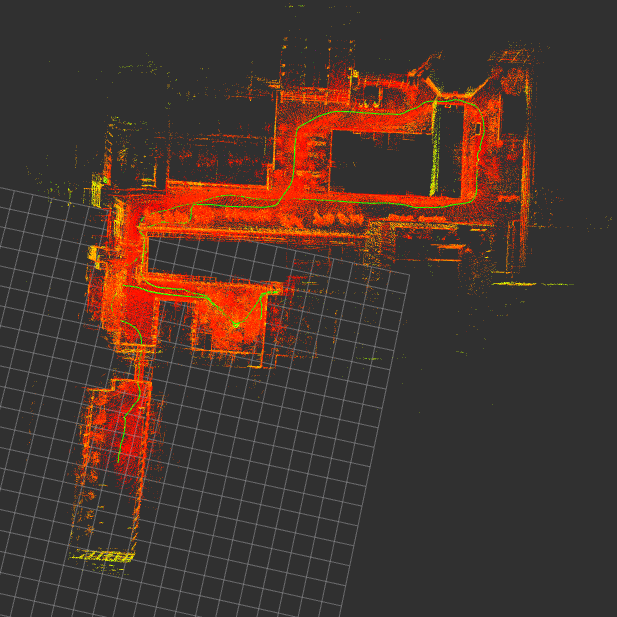
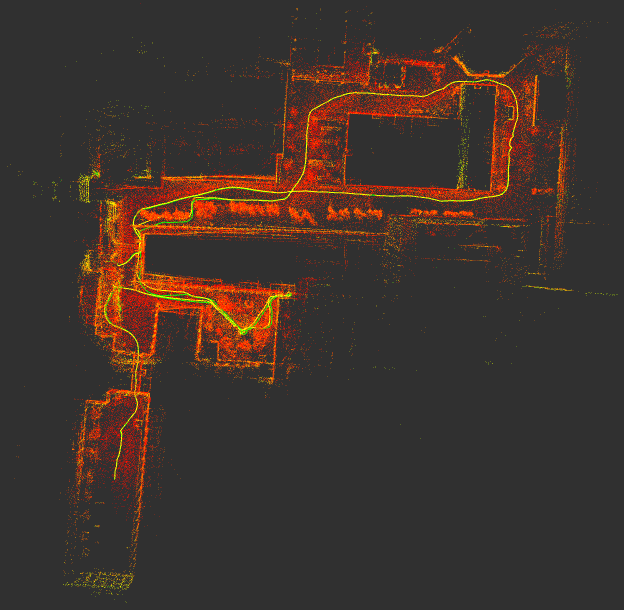
Change the coordinate system of a point cloud in a partial map from global to local

Changed region(s): [[0.0, 0.0311, 0.9238, 1.0], [0.4619, 0.9967, 0.4927, 1.0]]

diff --git a/scanmatcher/src/scanmatcher_component.cpp b/scanmatcher/src/scanmatcher_component.cpp
@@ -38,6 +38,8 @@ ScanMatcherComponent::ScanMatcherComponent(const rclcpp::NodeOptions & options)
   get_parameter("vg_size_for_input", vg_size_for_input_);
   declare_parameter("vg_size_for_map", 0.1);
   get_parameter("vg_size_for_map", vg_size_for_map_);
+  declare_parameter("use_min_max_filter", false);
+  get_parameter("use_min_max_filter", use_min_max_filter_);
   declare_parameter("scan_min_range", 0.1);
   get_parameter("scan_min_range", scan_min_range_);
   declare_parameter("scan_max_range", 100.0);
@@ -82,6 +84,7 @@ ScanMatcherComponent::ScanMatcherComponent(const rclcpp::NodeOptions & options)
   std::cout << "trans_for_mapupdate[m]:" << trans_for_mapupdate_ << std::endl;
   std::cout << "vg_size_for_input[m]:" << vg_size_for_input_ << std::endl;
   std::cout << "vg_size_for_map[m]:" << vg_size_for_map_ << std::endl;
+  std::cout << "use_min_max_filter:" << std::boolalpha << use_min_max_filter_ << std::endl;
   std::cout << "scan_min_range[m]:" << scan_min_range_ << std::endl;
   std::cout << "scan_max_range[m]:" << scan_max_range_ << std::endl;
   std::cout << "set_initial_pose:" << std::boolalpha << set_initial_pose_ << std::endl;
@@ -114,7 +117,7 @@ ScanMatcherComponent::ScanMatcherComponent(const rclcpp::NodeOptions & options)
   }
 
   map_array_msg_.header.frame_id = global_frame_id_;
-  map_array_msg_.cloud_coordinate = map_array_msg_.GLOBAL;
+  map_array_msg_.cloud_coordinate = map_array_msg_.LOCAL;
 
   path_.header.frame_id = global_frame_id_;
 
@@ -183,11 +186,13 @@ void ScanMatcherComponent::initializePubSub()
         pcl::PointCloud<PointType>::Ptr tmp_ptr(new pcl::PointCloud<PointType>());
         pcl::fromROSMsg(transformed_msg, *tmp_ptr);
 
-        double r;
-        pcl::PointCloud<PointType> tmp;
-        for (const auto & p : tmp_ptr->points) {
-          r = sqrt(pow(p.x, 2.0) + pow(p.y, 2.0));
-          if (scan_min_range_ < r && r < scan_max_range_) {tmp.push_back(p);}
+        if (use_min_max_filter_) {
+          double r;
+          pcl::PointCloud<PointType> tmp;
+          for (const auto & p : tmp_ptr->points) {
+            r = sqrt(pow(p.x, 2.0) + pow(p.y, 2.0));
+            if (scan_min_range_ < r && r < scan_max_range_) {tmp.push_back(p);}
+          }
         }
 
         if (!initial_cloud_received_) {
@@ -211,14 +216,14 @@ void ScanMatcherComponent::initializePubSub()
           pcl::toROSMsg(*transformed_cloud_ptr, *map_msg_ptr);
 
           //map array
-          sensor_msgs::msg::PointCloud2::SharedPtr transformed_cloud_msg_ptr(
+          sensor_msgs::msg::PointCloud2::SharedPtr cloud_msg_ptr(
             new sensor_msgs::msg::PointCloud2);
-          pcl::toROSMsg(*transformed_cloud_ptr, *transformed_cloud_msg_ptr);
+          pcl::toROSMsg(*cloud_ptr, *cloud_msg_ptr);
           lidarslam_msgs::msg::SubMap submap;
           submap.header = msg->header;
           submap.distance = 0;
           submap.pose = corrent_pose_stamped_.pose;
-          submap.cloud = *transformed_cloud_msg_ptr;
+          submap.cloud = *cloud_msg_ptr;
           map_array_msg_.header = msg->header;
           map_array_msg_.submaps.push_back(submap);
 
@@ -298,7 +303,6 @@ void ScanMatcherComponent::receiveCloud(
   voxel_grid.filter(*filtered_cloud_ptr);
   registration_->setInputSource(filtered_cloud_ptr);
 
-
   Eigen::Matrix4f sim_trans = getTransformation(corrent_pose_stamped_.pose);
 
   if (use_odom_) {
@@ -325,12 +329,9 @@ void ScanMatcherComponent::receiveCloud(
       if (odom_stamp.nanoseconds() > stamp.nanoseconds()) {break;}
       odom_ptr = (odom_ptr + 1) % odom_que_length_;
     }
-
     Eigen::Matrix4f odom_position = getTransformation(odom_que_[odom_ptr].pose.pose);
-
     sim_trans = odom_position;
     odom_ptr_front_ = odom_ptr;
-
   }
 
   pcl::PointCloud<PointType>::Ptr output_cloud(new pcl::PointCloud<PointType>);
@@ -430,14 +431,14 @@ void ScanMatcherComponent::updateMap(
   const Eigen::Matrix4f final_transformation,
   const geometry_msgs::msg::PoseStamped corrent_pose_stamped)
 {
-  pcl::PointCloud<PointType>::Ptr tmp_ptr(new pcl::PointCloud<PointType>());
+  pcl::PointCloud<PointType>::Ptr filtered_cloud_ptr(new pcl::PointCloud<PointType>());
   pcl::VoxelGrid<PointType> voxel_grid;
   voxel_grid.setLeafSize(vg_size_for_map_, vg_size_for_map_, vg_size_for_map_);
   voxel_grid.setInputCloud(cloud_ptr);
-  voxel_grid.filter(*tmp_ptr);
+  voxel_grid.filter(*filtered_cloud_ptr);
 
   pcl::PointCloud<PointType>::Ptr transformed_cloud_ptr(new pcl::PointCloud<PointType>());
-  pcl::transformPointCloud(*tmp_ptr, *transformed_cloud_ptr, final_transformation);
+  pcl::transformPointCloud(*filtered_cloud_ptr, *transformed_cloud_ptr, final_transformation);
 
   targeted_cloud_.clear();
   targeted_cloud_ += *transformed_cloud_ptr;
@@ -446,13 +447,17 @@ void ScanMatcherComponent::updateMap(
     if (num_submaps - 1 - i < 0) {continue;}
     pcl::PointCloud<PointType>::Ptr tmp_ptr(new pcl::PointCloud<PointType>());
     pcl::fromROSMsg(map_array_msg_.submaps[num_submaps - 1 - i].cloud, *tmp_ptr);
-    targeted_cloud_ += *tmp_ptr;
+    pcl::PointCloud<PointType>::Ptr transformed_tmp_ptr(new pcl::PointCloud<PointType>());
+    Eigen::Affine3d submap_affine;
+    tf2::fromMsg(map_array_msg_.submaps[num_submaps - 1 - i].pose, submap_affine);
+    pcl::transformPointCloud(*tmp_ptr, *transformed_tmp_ptr, submap_affine.matrix());
+    targeted_cloud_ += *transformed_tmp_ptr;
   }
 
   /* map array */
-  sensor_msgs::msg::PointCloud2::SharedPtr transformed_cloud_msg_ptr(
+  sensor_msgs::msg::PointCloud2::SharedPtr cloud_msg_ptr(
     new sensor_msgs::msg::PointCloud2);
-  pcl::toROSMsg(*transformed_cloud_ptr, *transformed_cloud_msg_ptr);
+  pcl::toROSMsg(*filtered_cloud_ptr, *cloud_msg_ptr);
 
   lidarslam_msgs::msg::SubMap submap;
   submap.header.frame_id = global_frame_id_;
@@ -460,7 +465,7 @@ void ScanMatcherComponent::updateMap(
   latest_distance_ += trans_;
   submap.distance = latest_distance_;
   submap.pose = corrent_pose_stamped.pose;
-  submap.cloud = *transformed_cloud_msg_ptr;
+  submap.cloud = *cloud_msg_ptr;
   submap.cloud.header.frame_id = global_frame_id_;
   map_array_msg_.header.stamp = corrent_pose_stamped.header.stamp;
   map_array_msg_.submaps.push_back(submap);
@@ -503,6 +508,10 @@ void ScanMatcherComponent::publishMap()
   for (auto & submap : map_array_msg_.submaps) {
     pcl::PointCloud<PointType>::Ptr submap_cloud_ptr(new pcl::PointCloud<PointType>);
     pcl::fromROSMsg(submap.cloud, *submap_cloud_ptr);
+    pcl::PointCloud<PointType>::Ptr transformed_submap_cloud_ptr(new pcl::PointCloud<PointType>());
+    Eigen::Affine3d submap_affine;
+    tf2::fromMsg(submap.pose, submap_affine);
+    pcl::transformPointCloud(*submap_cloud_ptr, *transformed_submap_cloud_ptr, submap_affine.matrix());
     *map_ptr += *submap_cloud_ptr;
   }
   std::cout << "number of map　points: " << map_ptr->size() << std::endl;

diff --git a/graph_based_slam/src/graph_based_slam_component.cpp b/graph_based_slam/src/graph_based_slam_component.cpp
@@ -102,7 +102,7 @@ void GraphBasedSlamComponent::initializePubSub()
   auto map_array_callback =
     [this](const typename lidarslam_msgs::msg::MapArray::SharedPtr msg_ptr) -> void
     {
-      std::lock_guard<std::mutex> lock(mtx);
+      std::lock_guard<std::mutex> lock(mtx_);
       map_array_msg_ = *msg_ptr;
       initial_map_array_received_ = true;
       is_map_array_updated_ = true;
@@ -122,10 +122,6 @@ void GraphBasedSlamComponent::initializePubSub()
     "modified_map",
     rclcpp::QoS(10));
 
-  loop_candidate_map_pub_ = create_publisher<sensor_msgs::msg::PointCloud2>(
-    "loop_candidate_map",
-    rclcpp::QoS(10));
-
   modified_map_array_pub_ = create_publisher<lidarslam_msgs::msg::MapArray>(
     "modified_map_array", rclcpp::QoS(10));
 
@@ -142,18 +138,16 @@ void GraphBasedSlamComponent::searchLoop()
 
   if (initial_map_array_received_ == false) {return;}
   if (is_map_array_updated_ == false) {return;}
-  if (map_array_msg_.cloud_coordinate != map_array_msg_.GLOBAL) {
-    RCLCPP_WARN(get_logger(), "cloud_coordinate should be global, but it's not global.");
+  if (map_array_msg_.cloud_coordinate != map_array_msg_.LOCAL) {
+    RCLCPP_WARN(get_logger(), "cloud_coordinate should be local, but it's not local.");
   }
   is_map_array_updated_ = false;
 
-  std::cout << "----------------------------" << std::endl;
-  std::cout << "searching Loop" << std::endl;
-
   lidarslam_msgs::msg::MapArray map_array_msg = map_array_msg_;
-  std::lock_guard<std::mutex> lock(mtx);
+  std::lock_guard<std::mutex> lock(mtx_);
   int num_submaps = map_array_msg.submaps.size();
-  std::cout << "num_submaps:" << num_submaps << std::endl;
+  std::cout << "----------------------------" << std::endl;
+  std::cout << "searching Loop, num_submaps:" << num_submaps << std::endl;
 
   double min_fitness_score = std::numeric_limits<double>::max();
   double distance_min_fitness_score = 0;
@@ -165,7 +159,11 @@ void GraphBasedSlamComponent::searchLoop()
   tf2::fromMsg(latest_submap.pose, latest_submap_affine);
   pcl::PointCloud<pcl::PointXYZI>::Ptr latest_submap_cloud_ptr(new pcl::PointCloud<pcl::PointXYZI>);
   pcl::fromROSMsg(latest_submap.cloud, *latest_submap_cloud_ptr);
-  registration_->setInputSource(latest_submap_cloud_ptr);
+  pcl::PointCloud<pcl::PointXYZI>::Ptr transformed_latest_submap_cloud_ptr(new pcl::PointCloud<pcl::PointXYZI>);
+  Eigen::Affine3d latest_affine;
+  tf2::fromMsg(latest_submap.pose, latest_affine);
+  pcl::transformPointCloud(*latest_submap_cloud_ptr, *transformed_latest_submap_cloud_ptr, latest_affine.matrix().cast<float>());
+  registration_->setInputSource(transformed_latest_submap_cloud_ptr);
   double latest_moving_distance = latest_submap.distance;
   Eigen::Vector3d latest_submap_pos{
     latest_submap.pose.position.x,
@@ -198,7 +196,11 @@ void GraphBasedSlamComponent::searchLoop()
         auto near_submap = map_array_msg.submaps[id_min + j - search_submap_num_];
         pcl::PointCloud<pcl::PointXYZI>::Ptr submap_cloud_ptr(new pcl::PointCloud<pcl::PointXYZI>);
         pcl::fromROSMsg(near_submap.cloud, *submap_cloud_ptr);
-        *submap_clouds_ptr += *submap_cloud_ptr;
+        pcl::PointCloud<pcl::PointXYZI>::Ptr transformed_submap_cloud_ptr(new pcl::PointCloud<pcl::PointXYZI>);
+        Eigen::Affine3d affine;
+        tf2::fromMsg(near_submap.pose, affine);
+        pcl::transformPointCloud(*submap_cloud_ptr, *transformed_submap_cloud_ptr, affine.matrix().cast<float>());
+        *submap_clouds_ptr += *transformed_submap_cloud_ptr;
       }
 
       pcl::PointCloud<pcl::PointXYZI>::Ptr filtered_clouds_ptr(new pcl::PointCloud<pcl::PointXYZI>());
@@ -237,6 +239,7 @@ void GraphBasedSlamComponent::searchLoop()
 
         return;
       }
+
       std::cout << "-" << std::endl;
       std::cout << "min_submap_distance:" << min_submap.distance << std::endl;
       std::cout << "min_fitness_score:" << fitness_score << std::endl;
@@ -319,11 +322,10 @@ void GraphBasedSlamComponent::doPoseAdjustment(
       new pcl::PointCloud<pcl::PointXYZI>());
     pcl::fromROSMsg(map_array_msg.submaps[i].cloud, *cloud_ptr);
 
-    Eigen::Affine3d relative_affine = previous_affine.inverse() * se3;
-    pcl::transformPointCloud(*cloud_ptr, *transformed_cloud_ptr, relative_affine.matrix().cast<float>());
+    pcl::transformPointCloud(*cloud_ptr, *transformed_cloud_ptr, se3.matrix().cast<float>());
     sensor_msgs::msg::PointCloud2::SharedPtr cloud_msg_ptr(new sensor_msgs::msg::PointCloud2);
     pcl::toROSMsg(*transformed_cloud_ptr, *cloud_msg_ptr);
-    *map_ptr += *cloud_ptr;
+    *map_ptr += *transformed_cloud_ptr;
 
     /* submap */
     lidarslam_msgs::msg::SubMap submap;

diff --git a/graph_based_slam/include/graph_based_slam/graph_based_slam_component.h b/graph_based_slam/include/graph_based_slam/graph_based_slam_component.h
@@ -96,7 +96,7 @@ public:
     explicit GraphBasedSlamComponent(const rclcpp::NodeOptions & options);
 
 private:
-    std::mutex mtx;
+    std::mutex mtx_;
 
     rclcpp::Clock clock_;
     tf2_ros::Buffer tfbuffer_;
@@ -111,7 +111,6 @@ private:
     rclcpp::Publisher < lidarslam_msgs::msg::MapArray > ::SharedPtr modified_map_array_pub_;
     rclcpp::Publisher < nav_msgs::msg::Path > ::SharedPtr modified_path_pub_;
     rclcpp::Publisher < sensor_msgs::msg::PointCloud2 > ::SharedPtr modified_map_pub_;
-    rclcpp::Publisher < sensor_msgs::msg::PointCloud2 > ::SharedPtr loop_candidate_map_pub_;
     rclcpp::TimerBase::SharedPtr loop_detect_timer_;
     rclcpp::Service < std_srvs::srv::Empty > ::SharedPtr map_save_srv_;
 
@@ -120,11 +119,14 @@ private:
     void doPoseAdjustment(lidarslam_msgs::msg::MapArray map_array_msg, bool do_save_map);
     void publishMapAndPose();
 
+    // loop search parameter
     int loop_detection_period_;
     double threshold_loop_closure_score_;
     double distance_loop_closure_;
     double range_of_searching_loop_closure_;
     int search_submap_num_;
+
+    // pose graph optimization parameter
     bool use_save_map_in_loop_ {true};
 
     bool initial_map_array_received_ {false};

diff --git a/scanmatcher/include/scanmatcher/scanmatcher_component.h b/scanmatcher/include/scanmatcher/scanmatcher_component.h
@@ -148,6 +148,7 @@ private:
     double trans_for_mapupdate_;
     double vg_size_for_input_;
     double vg_size_for_map_;
+    bool use_min_max_filter_ {false};
     double scan_min_range_ {0.1};
     double scan_max_range_ {100.0};
     double map_publish_period_;

diff --git a/README.md b/README.md
@@ -10,7 +10,7 @@ See LIO-SAM for IMU composites, otherwise see lidarslam_ros2.
 
 <img src="./scanmatcher/images/li_slam.png">
 
-Green path: path
+Yellow path: path without loop closure, Green path: modified path, Red: map
 
 Reference(From the LIO-SAM paper)  
 https://github.com/TixiaoShan/LIO-SAM/blob/master/config/doc/paper.pdf  
@@ -77,7 +77,7 @@ Green arrow: pose, Yellow path: path, Green path: path by imu
 
 <img src="./scanmatcher/images/li_slam.png">
 
-Green path: path
+Yellow path: path without loop closure, Green path: modified path, Red: map
 
 rosgraph
 
